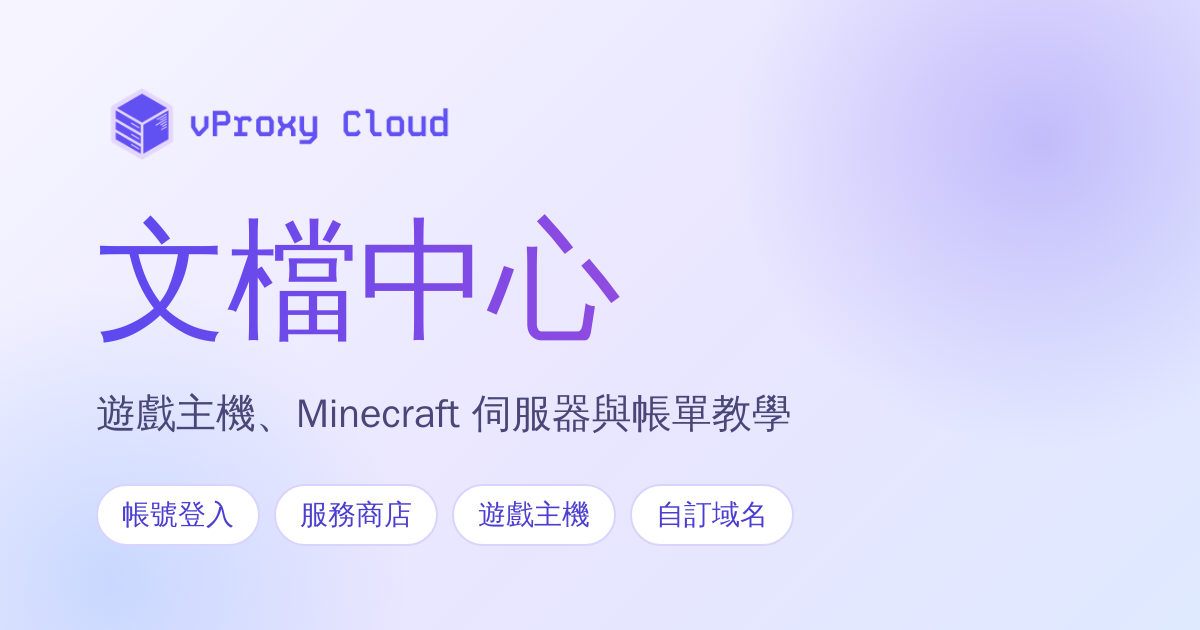
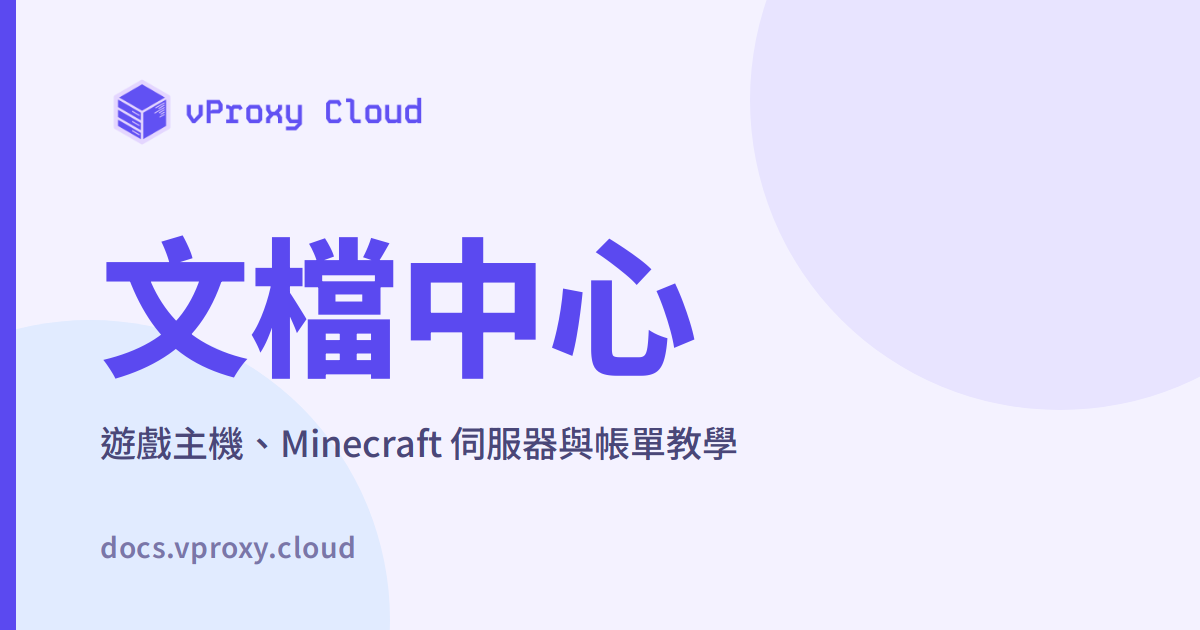
每頁專屬分享預覽圖（純色版面、無損壓縮，共 1.6 MB），並調整站內搜尋索引

diff --git a/lib/seo.ts b/lib/seo.ts
@@ -1,3 +1,5 @@
+import fs from "node:fs";
+import path from "node:path";
 import type { Metadata } from "next";
 
 /** 正式網址（Vercel 預覽環境可用 NEXT_PUBLIC_SITE_URL 覆蓋） */
@@ -14,6 +16,20 @@ export const OG_IMAGE = {
 	height: 630,
 	alt: SITE_NAME,
 };
+
+/**
+ * 頁面專屬的預覽圖（scripts/gen-og.mjs 產生在 public/og/docs/）；
+ * 還沒有對應圖片的頁面使用預設圖。
+ */
+export function ogImage(slugs: string[], alt?: string) {
+	if (slugs.length > 0) {
+		const url = `/og/docs/${slugs.join("/")}.png`;
+		if (fs.existsSync(path.join(process.cwd(), "public", url))) {
+			return { url, width: 1200, height: 630, alt: alt ?? SITE_NAME };
+		}
+	}
+	return OG_IMAGE;
+}
 
 /** 網址路徑 → 絕對網址 */
 export function absoluteUrl(path: string) {
@@ -116,6 +132,7 @@ export function pageMetadata(opts: {
 	const title = isHome ? HOME_TITLE : seoTitle(opts.title, opts.slugs);
 	const fullTitle = isHome ? HOME_TITLE : `${title} | ${SITE_NAME}`;
 	const description = seoDescription(opts.slugs, opts.description);
+	const image = ogImage(opts.slugs, fullTitle);
 	return {
 		title: isHome ? { absolute: HOME_TITLE } : title,
 		description,
@@ -127,14 +144,14 @@ export function pageMetadata(opts: {
 			description,
 			siteName: SITE_NAME,
 			locale: "zh_TW",
-			images: [OG_IMAGE],
+			images: [image],
 			...(opts.modified ? { modifiedTime: opts.modified.toISOString() } : {}),
 		},
 		twitter: {
 			card: "summary_large_image",
 			title: fullTitle,
 			description,
-			images: [OG_IMAGE.url],
+			images: [image.url],
 		},
 	};
 }

diff --git a/app/docs/[[...slug]]/page.tsx b/app/docs/[[...slug]]/page.tsx
@@ -10,7 +10,7 @@ import { Card, Cards } from "fumadocs-ui/components/card";
 import { notFound } from "next/navigation";
 import { getMDXComponents } from "@/mdx-components";
 import type { Metadata } from "next";
-import { BRAND_NAME, SITE_NAME, absoluteUrl, pageMetadata, seoDescription, seoTitle } from "@/lib/seo";
+import { BRAND_NAME, SITE_NAME, absoluteUrl, ogImage, pageMetadata, seoDescription, seoTitle } from "@/lib/seo";
 
 export default async function Page(props: {
 	params: Promise<{ slug?: string[] }>;
@@ -133,7 +133,7 @@ function JsonLd({ page }: { page: DocPage }) {
 			url,
 			mainEntityOfPage: url,
 			inLanguage: "zh-TW",
-			image: absoluteUrl("/og/default.png"),
+			image: absoluteUrl(ogImage(page.slugs).url),
 			author: publisher,
 			publisher,
 			...(page.data.lastModified ? { dateModified: page.data.lastModified.toISOString() } : {}),

diff --git a/app/api/search/route.ts b/app/api/search/route.ts
@@ -1,4 +1,20 @@
 import { source } from "@/lib/source";
+import { seoDescription } from "@/lib/seo";
 import { createFromSource } from "fumadocs-core/search/server";
 
-export const { GET } = createFromSource(source);
+/**
+ * 站內搜尋（Fumadocs 內建引擎，預設的 multilingual 斷詞已支援中文）。
+ * 索引時用較完整的描述（lib/seo.ts）取代頁面上的簡短副標題，
+ * 讓「怎麼上傳大檔案」這類長句問法，也能對到「SFTP」「檔案」等頁面。
+ */
+export const { GET } = createFromSource(source, {
+	buildIndex(page) {
+		return {
+			id: page.url,
+			title: page.data.title,
+			description: seoDescription(page.slugs, page.data.description),
+			url: page.url,
+			structuredData: page.data.structuredData,
+		};
+	},
+});
